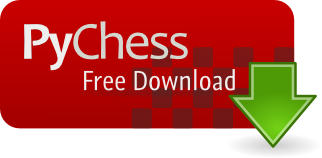
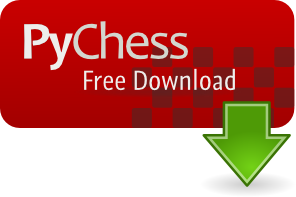
Improve shadows. Conditionally hide little green pawn. Fix ie8 issue with navbar.

diff --git a/pychess/output/style.css b/pychess/output/style.css
@@ -24,11 +24,11 @@ h2 {
   font-size: 1.5em;
 }
 h3 {
-  font-size: 16px;
-  color: #6e0000;
+  font-size: 1.2em;
+  color: #8e0a0a;
   margin-top: 5px;
   margin-bottom: 5px;
-  text-shadow: 1px 1px 1px #666666;
+  text-shadow: 1px 1px 1px #6374ab;
 }
 body { background-color: white; }
 .top {
@@ -72,7 +72,7 @@ body { background-color: white; }
   font-family: GraublauWeb, Verdana, Helvetica, Arial;
   font-weight: bold;
   text-align: center;
-  text-shadow: 2px 2px 2px #000000;
+  text-shadow: 2px 2px 2px #331010;
   top: -10px;
 }
 #navbar a {
@@ -82,16 +82,16 @@ body { background-color: white; }
   line-height: 180%;
 }
 #navbar #zero { width: 128px; }
-#navbar #one { width: 160px; }
+#navbar #one { width: 188px; }
 #navbar #two {
   width: 80px;
-  width: 105px;
+  width: 119px;
 }
 #navbar #three {
   width: 80px;
   width: 80px;
 }
-#navbar #four { width: 148px; }
+#navbar #four { width: 168px; }
 #navbar div.selected {
   background: transparent url(/images/bar_slice.png) repeat-x;
   float: left;
@@ -124,14 +124,14 @@ body { background-color: white; }
   position: relative;
   z-index: 10;
   left: 5px;
-  bottom: 34px;
+  bottom: 20px;
 }
 #navbar div.padding {
   background: transparent url(/images/bar_slice.png) repeat-x;
   float: left;
   height: 38px;
   width: 6px;
-  width: 257px;
+  width: 195px;
 }
 #navbar div#left.button {
   background: transparent url(/images/bar_slice.png) repeat-x;
@@ -219,7 +219,7 @@ body { background-color: white; }
   height: 60px;
   display: block;
   clear: both;
-  padding-left: 492px;
+  padding-left: 282px;
   padding-top: 30px;
   padding-bottom: 30px;
 }

diff --git a/pychess/content/stylesheet.less b/pychess/content/stylesheet.less
@@ -1,12 +1,12 @@
 @button_text: #FFF;
 @light_red:#B80505;
-@dark_red:#6E0000;
+@dark_red:#8E0A0A;
 @content_width: 900px;
 @button0_width: 128px;
-@button1_width: 160px;
-@button2_width: 105px;
+@button1_width: 188px;
+@button2_width: 119px;
 @button3_width:  80px;
-@button4_width: 148px;
+@button4_width: 168px;
 @padding: 50px;
 
 @font-face {
@@ -39,11 +39,11 @@ h2 {
 }
 
 h3 {
-  font-size: 16px; 
+  font-size: 1.2em; 
   color: @dark_red;
   margin-top: 5px;
   margin-bottom: 5px; 
-  text-shadow:1px 1px 1px #666;
+  text-shadow:1px 1px 1px #6374AB;
 }
 
 body {
@@ -92,7 +92,7 @@ body {
 	font-family:GraublauWeb,Verdana,Helvetica,Arial;
   font-weight:bold;
   text-align:center;
-  text-shadow:2px 2px 2px #000000;
+  text-shadow:2px 2px 2px #331010;
   top:-10px;
 
 	a {
@@ -144,7 +144,7 @@ body {
 			position: relative;
       z-index: 10;
       left: 5px;
-      bottom: 34px;
+      bottom: 20px;
   	}
 		background:transparent url(/images/bar_divider.png) no-repeat;
 		width: 2px;
@@ -241,7 +241,7 @@ float:left;
   height: 60px;
   display: block;
   clear: both;
-  padding-left: 492px;
+  padding-left: 282px;
   padding-top: 30px;
   padding-bottom: 30px;
 }

diff --git a/pychess/output/about/index.html b/pychess/output/about/index.html
@@ -10,7 +10,7 @@
 		<div id="container">
 
 			<div id="header">
-				<div id="left_column"
+				<div id="left_column">
 					<a href="/"><img id="logo" src="/images/logo.png"/></a>
 					<a href="/"><img id="pychess" src="/images/pychess.png"/></a>
 				</div>
@@ -53,7 +53,7 @@
 				</div>
 
 				<div class="bar_divider">
-					<img id="green_pawn" src="/images/green_pawn.png"/>
+		      
 				</div>
 
 				<div class="padding">
@@ -68,7 +68,9 @@
 		
 
 			<div id="content">
-				<p>About and screen shots here.</p>
+				<h2>PyChess About Page</h2>
+<h3>It's Cool</h3>
+<p>Lorem ipsum dolor sit amet, consectetur magna aliqua. Ut enim ad minim veniam, quis nostrud exercitation ullamco laboris nisi ut aliquip ex ea commodo consequat. Duis aute irure dolor in reprehenderit in voluptate velit esse cillum dolore eu fugiat nulla pariatur.  Excepteur sint occaecat cupidatat non proident, sunt in culpa qui officia deserunt mollit anim id est laborum About and screen shots here.</p>
 			</div>
 
 			<div id="footer">

diff --git a/pychess/content/about.html b/pychess/content/about.html
@@ -2,5 +2,6 @@
 title: A New Item
 ---
 
-<p>About and screen shots here.</p>
-
+<h2>PyChess About Page</h2>
+<h3>It's Cool</h3>
+<p>Lorem ipsum dolor sit amet, consectetur magna aliqua. Ut enim ad minim veniam, quis nostrud exercitation ullamco laboris nisi ut aliquip ex ea commodo consequat. Duis aute irure dolor in reprehenderit in voluptate velit esse cillum dolore eu fugiat nulla pariatur.  Excepteur sint occaecat cupidatat non proident, sunt in culpa qui officia deserunt mollit anim id est laborum About and screen shots here.</p>

diff --git a/pychess/output/index.html b/pychess/output/index.html
@@ -10,7 +10,7 @@
 		<div id="container">
 
 			<div id="header">
-				<div id="left_column"
+				<div id="left_column">
 					<a href="/"><img id="logo" src="/images/logo.png"/></a>
 					<a href="/"><img id="pychess" src="/images/pychess.png"/></a>
 				</div>
@@ -53,7 +53,9 @@
 				</div>
 
 				<div class="bar_divider">
-					<img id="green_pawn" src="/images/green_pawn.png"/>
+		      
+						<img id="green_pawn" src="/images/green_pawn.png"/>
+					
 				</div>
 
 				<div class="padding">

diff --git a/pychess/output/community/index.html b/pychess/output/community/index.html
@@ -10,7 +10,7 @@
 		<div id="container">
 
 			<div id="header">
-				<div id="left_column"
+				<div id="left_column">
 					<a href="/"><img id="logo" src="/images/logo.png"/></a>
 					<a href="/"><img id="pychess" src="/images/pychess.png"/></a>
 				</div>
@@ -53,7 +53,7 @@
 				</div>
 
 				<div class="bar_divider">
-					<img id="green_pawn" src="/images/green_pawn.png"/>
+		      
 				</div>
 
 				<div class="padding">

diff --git a/pychess/output/download/index.html b/pychess/output/download/index.html
@@ -10,7 +10,7 @@
 		<div id="container">
 
 			<div id="header">
-				<div id="left_column"
+				<div id="left_column">
 					<a href="/"><img id="logo" src="/images/logo.png"/></a>
 					<a href="/"><img id="pychess" src="/images/pychess.png"/></a>
 				</div>
@@ -53,7 +53,7 @@
 				</div>
 
 				<div class="bar_divider">
-					<img id="green_pawn" src="/images/green_pawn.png"/>
+		      
 				</div>
 
 				<div class="padding">

diff --git a/pychess/output/news/index.html b/pychess/output/news/index.html
@@ -10,7 +10,7 @@
 		<div id="container">
 
 			<div id="header">
-				<div id="left_column"
+				<div id="left_column">
 					<a href="/"><img id="logo" src="/images/logo.png"/></a>
 					<a href="/"><img id="pychess" src="/images/pychess.png"/></a>
 				</div>
@@ -53,7 +53,7 @@
 				</div>
 
 				<div class="bar_divider">
-					<img id="green_pawn" src="/images/green_pawn.png"/>
+		      
 				</div>
 
 				<div class="padding">
